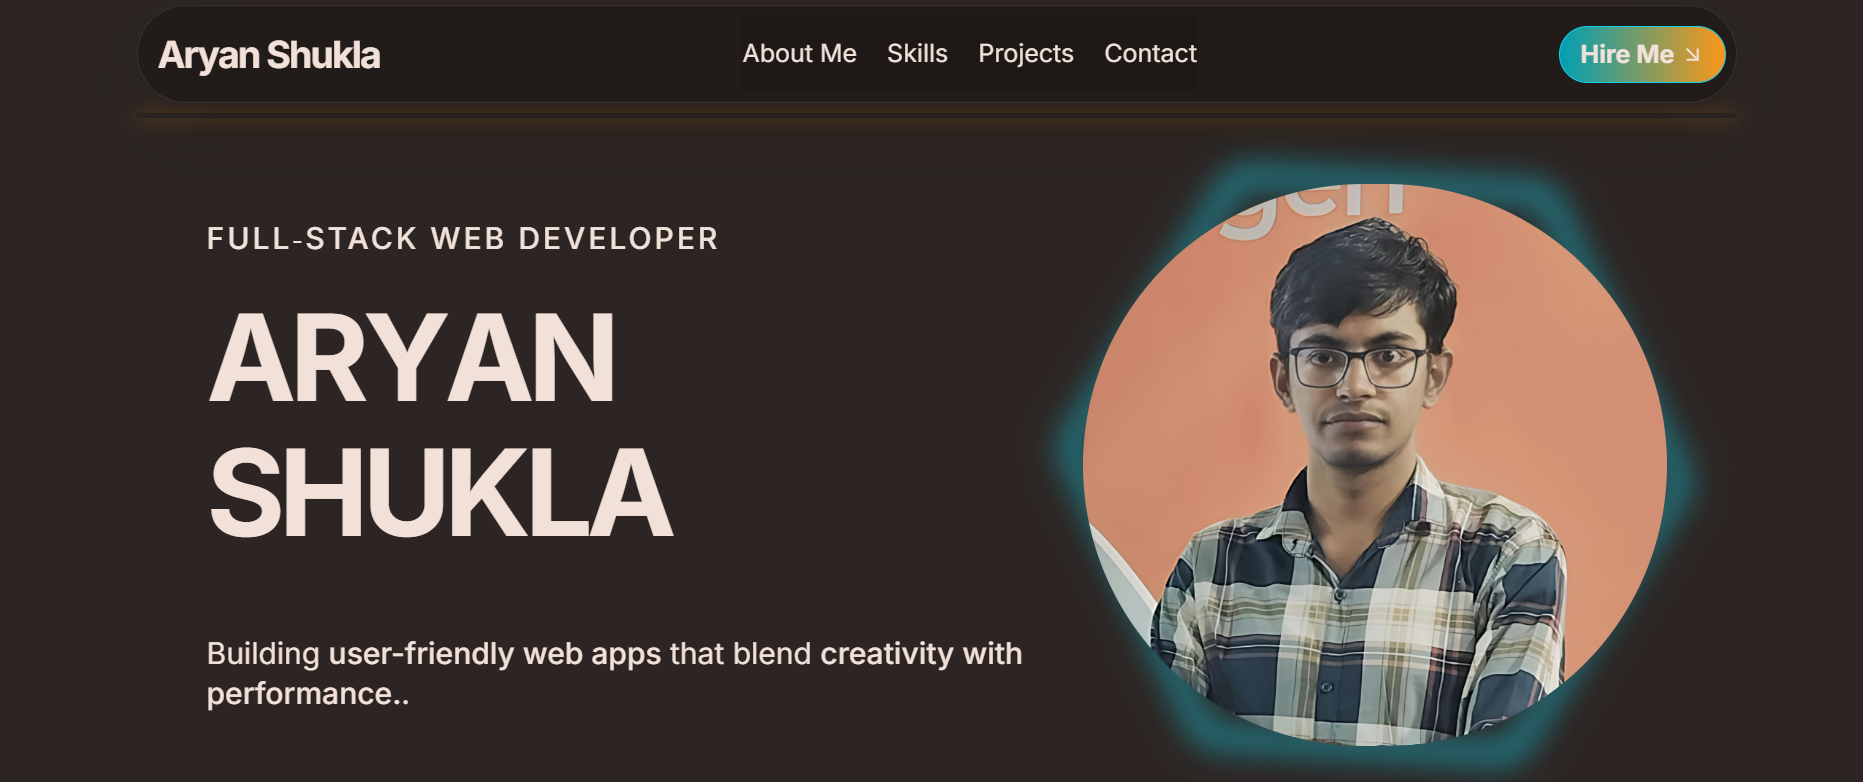
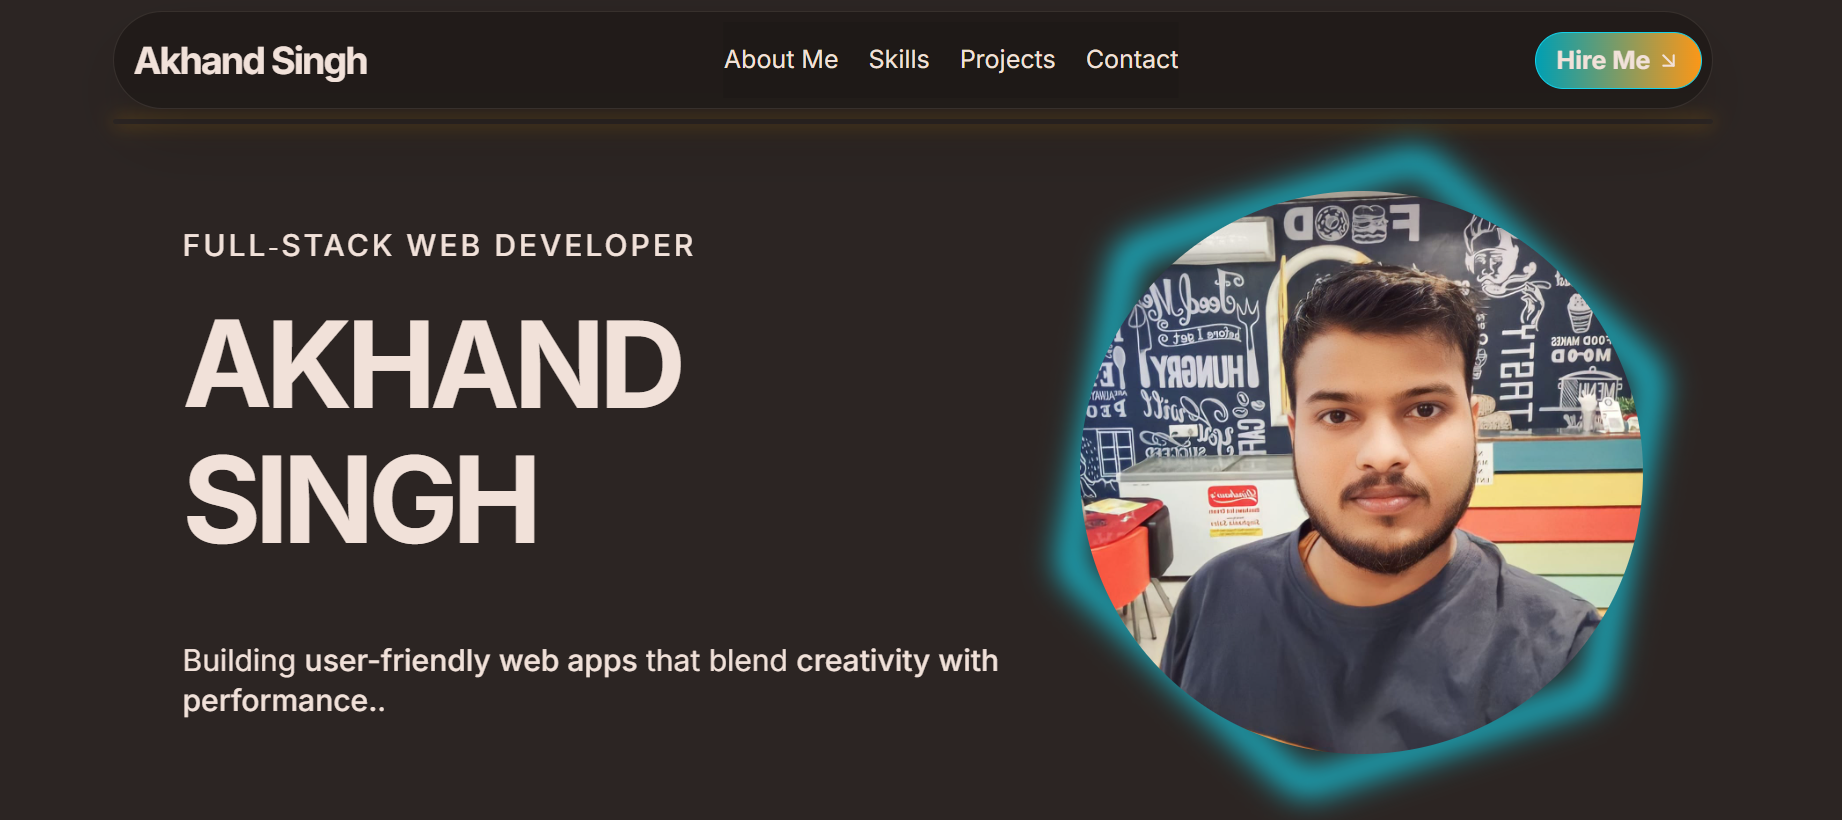
Update README.md with personal details and change repository link

diff --git a/README.md b/README.md
@@ -1,4 +1,4 @@
-# 🌟 Aryan Shukla — Portfolio Website
+# 🌟 Akhand Singh — Portfolio Website
 
 Welcome to my personal portfolio website! This site showcases my work, skills, and passion for building elegant, scalable, and user-friendly web applications.
 
@@ -54,7 +54,7 @@ src/
 
 ```
 # Clone the repository
-git clone https://github.com/ARYAN-095/portfolio-website.git
+git clone https://github.com/AKHANDSINGH1911/portfolio-website.git
 
 # Go into the directory
 cd portfolio-website
@@ -80,9 +80,9 @@ Inspired by modern developer portfolio designs across the web
 # ✉ Contact
 If you'd like to collaborate, provide feedback, or just connect:
 
-📧 Email: aryandevps095@gmail.com
+📧 Email: akhandsingh706095@gmail.com
 
-💼 LinkedIn: https://www.linkedin.com/in/aryan-shukla-176662228/
+💼 LinkedIn: https://www.linkedin.com/in/akhand-singh-a81a86259/
 
-💻 GitHub: ARYAN-095
+💻 GitHub: AKHANDSINGH1911
 
